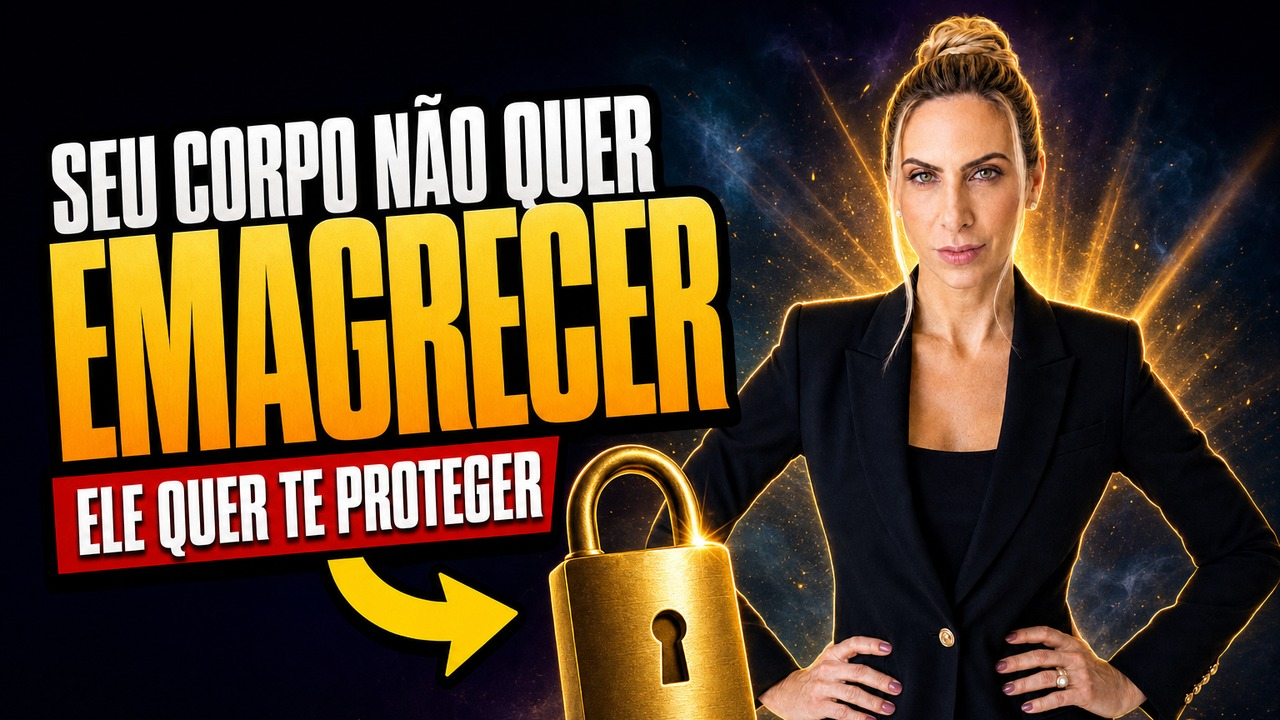
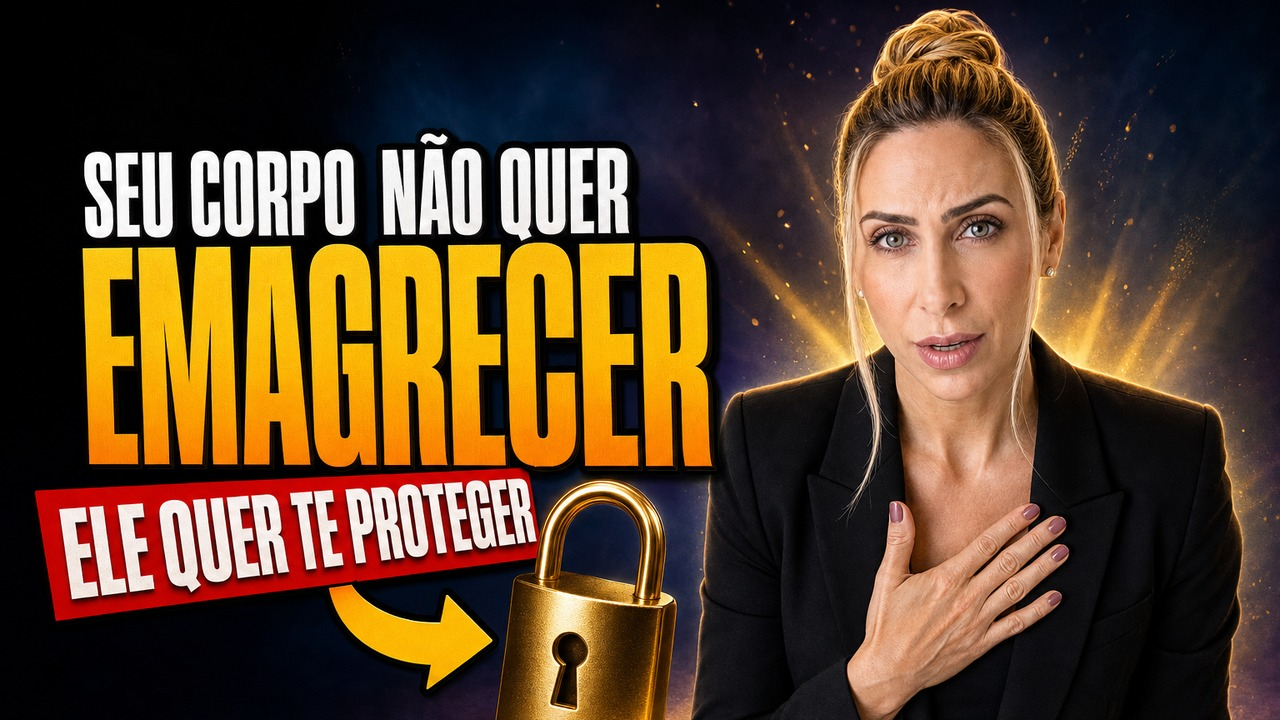
Capa com expressão no lugar da pose, e regra permanente de gerar em vez de colar foto
Segundo exercício pedido pelo usuário: três variantes de expressão ligadas à tese do vídeo
(mão no peito, palma erguida, olhos arregalados), geradas com duas fotos do ensaio apenas como
referência de semelhança. A de mão no peito ficou agendada (post 378341455, id novo após a
troca; uuid inalterado).

O QC lado a lado do rosto revelou o critério que faltava: quanto mais exagerada a expressão,
maior a deriva de identidade. Com os mesmos refs, a variante de acolhimento manteve o rosto da
Dra., enquanto as outras duas engrossaram sobrancelhas, alisaram a pele e arredondaram o rosto.

Regra permanente registrada em CLAUDE.md e FRAMEWORK.md: nunca colar foto pronta, sempre gerar,
com expressão condizente com o tema, e conferir fidelidade contra a foto real.

Claude-Session: https://claude.ai/code/session_01AiagaiSFA1F3z4kvb3C1Ps

diff --git a/CLAUDE.md b/CLAUDE.md
@@ -44,8 +44,10 @@ Este repositório é o **Dra. Juliana Romano Conteúdo Studio**: edição e agen
 - Cloud, mídia pública para o Metricool: commit temporário do render na branch (repo público, raw.githubusercontent.com passa no proxy), agendar e remover o arquivo em seguida. Exige `git add -f` (o .gitignore barra mídia) com autorização do usuário. **Por isso este repo deve ser público.**
 - Cloud: a env var `ELEVENLABS_API_KEY` de environment antigo continha um key ID (64 hex); a chave real é `sk_...` de 51 caracteres.
 - Ver imagem de URL bloqueada pelo environment (ex.: thumbnails i.ytimg.com): Kairogen `download_image_from_url` baixa server-side e retorna a imagem renderizada na conversa. Validado em 2026-09-01 com hqdefault.jpg (~480x360; maxresdefault pode estourar o limite de tokens).
-- Agendamento YouTube validado em 2026-09-01 (post 369746340): vídeo direto pela URL pública do Drive (`drive.usercontent.google.com/download?id=<ID>&export=download&confirm=t`) e `videoThumbnailUrl` por raw.githubusercontent.com funcionam; o Metricool copia ambos para o CDN dele na hora (não precisa vincular o Drive no Metricool). raw.githubusercontent bloqueado localmente no environment não importa: quem busca é o servidor do Metricool. getBestTimeToPostByNetwork: dayOfWeek 1=segunda ... 7=domingo. Canal publica quase diariamente sem padrão fixo de dia/horário (levantado em 2026-09-02): usar sempre o melhor horário do Metricool. Agendados: Mounjaro qui 03/09 16h (post 369746340), Razões da Obesidade ter 08/09 16h (post 369940826; segunda 07/09 é feriado e terça pontua mais alto) Menopausa qui 10/09 16h (post 371279170, capa feita no Claude Design pela agência) e Menopausa 2 qui 17/09 16h (post 376552659; agendado errado em sexta 18/09 e corrigido em 2026-09-15 via update, que troca o id; capa do fluxo briefing+GPT, título "Come pouco e não emagrece?"). LIÇÃO: sempre validar o dia da semana com `date -d <data> +%A` antes de agendar. Cuidado Mounjaro qui 24/09 16h (post 376554817, título "Mounjaro sem resultado?", capa do fluxo briefing+GPT em layout editorial branco/azul). Segredo da Obesidade qui 01/10 16h (post 378336192, título "Seu corpo não quer emagrecer, ele quer te proteger", primeira capa gerada pelo próprio estúdio via API, render em `design-system/renders/capa-segredo-obesidade.jpg`). Melhor horário medido em 18/09: quarta 16h (12033) e quinta 16h (11979) empatam na prática, então a cadência semanal de quinta pesa mais que a diferença. GOTCHA (2026-09-15, e o inverso em 2026-09-18): o normalizador de mídia do Metricool recusa uma das duas formas de URL do Drive com "Failed to normalize media", e **qual das duas falha muda de dia**. Em 15/09 caiu a `drive.usercontent` e passou a `drive.google.com/file/d/<ID>/view`; em 18/09 foi o contrário, a `/view` falhou e a `drive.usercontent...&confirm=t` passou de primeira. Regra: se der "Failed to normalize media", tentar a outra forma antes de procurar problema no arquivo. Thumbnail: limite do YouTube é 2 MB — converter export do Design (2560x1440 PNG ~5 MB) para 1280x720 JPG q92 antes de agendar.
-- **Fluxo de capa por API (2026-09-18, capa Segredo da Obesidade): o melhor até agora, e o estúdio faz sozinho.** `scripts/gera_imagem.py` ganhou `--ref` (foto de referência): a OpenAI passa a usar `/v1/images/edits` e o Gemini recebe a foto como parte inline. Receita validada: escolher no Drive a foto do ensaio cuja **pose case com a tese do vídeo** (aqui, mãos na cintura, blazer preto, para o tema da gordura como armadura), reduzir para 1024 px no lado maior, e mandar um prompt único com cena inteira (pessoa recortada à direita, fundo escuro temático, luz de contorno, bloco de texto caps com contorno preto, palavra-chave em gradiente dourado, faixa vermelha, prop 3D e uma seta). Prompt em `design-system/CAPAS-prompt-api.txt`. Comparação real: **`gpt-image-2` ganhou do `gemini-3-pro-image`** em tipografia (maior e mais pesada), no prop (cadeado com segredo visível) e na luz; o Gemini entrega 16:9 nativo (1376x768) e o OpenAI só 3:2 (1536x1024), que cortado para 1536x864 mantém a composição porque o prop foi pedido vazando pelo rodapé. Custo: ~1min20 no OpenAI, ~19s no Gemini. QC obrigatório de rosto e mãos ampliados: nas duas o rosto saiu fiel e as mãos com cinco dedos e a aliança da foto original, mas **isso precisa ser conferido toda vez**.
+- Agendamento YouTube validado em 2026-09-01 (post 369746340): vídeo direto pela URL pública do Drive (`drive.usercontent.google.com/download?id=<ID>&export=download&confirm=t`) e `videoThumbnailUrl` por raw.githubusercontent.com funcionam; o Metricool copia ambos para o CDN dele na hora (não precisa vincular o Drive no Metricool). raw.githubusercontent bloqueado localmente no environment não importa: quem busca é o servidor do Metricool. getBestTimeToPostByNetwork: dayOfWeek 1=segunda ... 7=domingo. Canal publica quase diariamente sem padrão fixo de dia/horário (levantado em 2026-09-02): usar sempre o melhor horário do Metricool. Agendados: Mounjaro qui 03/09 16h (post 369746340), Razões da Obesidade ter 08/09 16h (post 369940826; segunda 07/09 é feriado e terça pontua mais alto) Menopausa qui 10/09 16h (post 371279170, capa feita no Claude Design pela agência) e Menopausa 2 qui 17/09 16h (post 376552659; agendado errado em sexta 18/09 e corrigido em 2026-09-15 via update, que troca o id; capa do fluxo briefing+GPT, título "Come pouco e não emagrece?"). LIÇÃO: sempre validar o dia da semana com `date -d <data> +%A` antes de agendar. Cuidado Mounjaro qui 24/09 16h (post 376554817, título "Mounjaro sem resultado?", capa do fluxo briefing+GPT em layout editorial branco/azul). Segredo da Obesidade qui 01/10 16h (**post 378341455**, id novo depois da troca de capa; uuid 1932839351931913950; título "Seu corpo não quer emagrecer, ele quer te proteger"). Primeira capa gerada pelo próprio estúdio via API: a v1 usava a foto do ensaio como base e saiu sem expressão; a v2, que ficou agendada, é imagem gerada com expressão de mão no peito. Renders em `design-system/renders/capa-segredo-obesidade.jpg` (agendada) e `capa-segredo-obesidade-alt-revelacao.jpg` (alternativa mais agressiva, rosto menos fiel). Melhor horário medido em 18/09: quarta 16h (12033) e quinta 16h (11979) empatam na prática, então a cadência semanal de quinta pesa mais que a diferença. GOTCHA (2026-09-15, e o inverso em 2026-09-18): o normalizador de mídia do Metricool recusa uma das duas formas de URL do Drive com "Failed to normalize media", e **qual das duas falha muda de dia**. Em 15/09 caiu a `drive.usercontent` e passou a `drive.google.com/file/d/<ID>/view`; em 18/09 foi o contrário, a `/view` falhou e a `drive.usercontent...&confirm=t` passou de primeira. Regra: se der "Failed to normalize media", tentar a outra forma antes de procurar problema no arquivo. Thumbnail: limite do YouTube é 2 MB — converter export do Design (2560x1440 PNG ~5 MB) para 1280x720 JPG q92 antes de agendar.
+- **REGRA PERMANENTE de capa (decidida pelo usuário em 2026-09-18): nunca colar foto pronta, sempre GERAR a imagem.** As fotos do ensaio no Drive entram apenas como **referência de semelhança** (`--ref`), nunca como recorte colado. O prompt tem que pedir **expressão e gesto condizentes com a tese do vídeo**: pose neutra faz capa fraca. O rosto dela está **aprovado** desde 2026-09-18, então não é mais preciso validar caso a caso; o que continua obrigatório é o QC de fidelidade abaixo.
+- **QC de capa gerada: comparar o rosto lado a lado com a foto real, sempre.** Montar uma tira com o recorte do rosto real e o de cada variante (exemplo em `design-system/renders/qc-rostos-segredo-obesidade.jpg`). Achado de 2026-09-18 que vale como regra: **quanto mais exagerada a expressão, maior a deriva de identidade**. Na mesma leva, com os mesmos dois `--ref`, a variante de mão no peito manteve o rosto dela (olhos, nariz, textura de pele e marcas de expressão reais), enquanto a de olhos arregalados e a de palma erguida engrossaram a sobrancelha, alisaram a pele e arredondaram o rosto, virando "uma mulher parecida". Conferir também mãos (cinco dedos, unhas e anel iguais aos da foto) e ortografia com acento.
+- **Fluxo de capa por API (2026-09-18, capa Segredo da Obesidade): o melhor até agora, e o estúdio faz sozinho.** `scripts/gera_imagem.py` ganhou `--ref` (foto de referência): a OpenAI passa a usar `/v1/images/edits` e o Gemini recebe a foto como parte inline. Receita validada: escolher no Drive a foto do ensaio cuja **pose case com a tese do vídeo** (aqui, mãos na cintura, blazer preto, para o tema da gordura como armadura), reduzir para 1024 px no lado maior, e mandar um prompt único com cena inteira (pessoa recortada à direita, fundo escuro temático, luz de contorno, bloco de texto caps com contorno preto, palavra-chave em gradiente dourado, faixa vermelha, prop 3D e uma seta). Prompt em `design-system/CAPAS-prompt-api.txt`. Duas ou três fotos de ângulos diferentes como `--ref` sustentam a semelhança melhor que uma. Cada geração 1536x1024 leva ~1min25. Comparação real: **`gpt-image-2` ganhou do `gemini-3-pro-image`** em tipografia (maior e mais pesada), no prop (cadeado com segredo visível) e na luz; o Gemini entrega 16:9 nativo (1376x768) e o OpenAI só 3:2 (1536x1024), que cortado para 1536x864 mantém a composição porque o prop foi pedido vazando pelo rodapé. Custo: ~1min20 no OpenAI, ~19s no Gemini. QC obrigatório de rosto e mãos ampliados: nas duas o rosto saiu fiel e as mãos com cinco dedos e a aliança da foto original, mas **isso precisa ser conferido toda vez**.
 - **Fluxo de capa vencedor anterior (2026-09-14, capa Menopausa 2), quando não houver API de imagem**: o estúdio escreve o BRIEFING CRIATIVO (conceito com paradoxo, cena, foto do ensaio anexa por URL pública, tipografia, selo, prop, uma única seta com semântica, paleta fechada, regras) e a agência executa em modelo de imagem externo (GPT); a cena inteira gerada de uma vez integra luz/foto/prop melhor que qualquer colagem por camadas. Estúdio recebe o PNG pela pasta oficial de capas, faz QC (ortografia, sem travessão, rosto aprovado pela Dra., 1280x720 JPG <=2MB) e agenda. ATENÇÃO no QC: a IA re-renderiza o rosto e inventa detalhes (unhas, joias); validar com a cliente. Template do briefing: mensagem de 2026-09-14 na sessão; composição procedural local (foto real + placa PIL + tipografia HTML/playwright, scripts no scratchpad) é FALLBACK quando não houver modelo de imagem disponível.
 - Fluxo de capa anterior (validado na capa da Menopausa, 2026-09-04): assets via Higgsfield (fundo nano_banana_pro + remove_background da foto e do prop) -> composição no sandbox_exec com `design-system/scripts/capa_menopausa.py` (supersampling 2x) OU execução no Claude Design pela agência com o prompt `design-system/CAPAS-prompt-design.md` + os 3 assets anexados (a arte aprovada da Menopausa saiu do Design). Sandbox: stdout trunca ~20K chars (elide o meio acima disso); arquivos somem ~10s após cada call (background:true dá lease de 15 min); trazer imagem do sandbox para o environment via base64 em chunks funciona mas é frágil, preferir CDN + browser do usuário para aprovação. Kairogen download_image_from_url NÃO aceita os CDNs do Higgsfield (host not allowed). Imagem colada no chat chega só renderizada (sem arquivo em disco): arte final produzida fora do estúdio precisa chegar por URL pública (pasta oficial de capas).
 - Render de capa local: fontes do Google Fonts bloqueadas no environment; instalar TTFs do repo público google/fonts (sparse clone) em ~/.fonts + fc-cache, e renderizar o artboard com playwright-core + Chromium de /opt/pw-browsers/chromium (screenshot 1280x720). Frames de vídeo verticalmente: cortar acima da faixa de legenda queimada (~y 770 em 1080p) ou achar take com a mão erguida.

diff --git a/FRAMEWORK.md b/FRAMEWORK.md
@@ -76,7 +76,7 @@ Padrão em duas fases. A v1 (frames de vídeo, usada nas capas do Mounjaro e das
 - **Fundo escuro dramático** (preto/quase preto com glow colorido, fogo, textura) ou o próprio cenário do vídeo saturado e escurecido nas bordas.
 - **Texto gigante em caps, fonte condensada pesada (Anton/Impact-like)**: branco + **amarelo #FFE234** como dupla principal, com **contorno preto grosso** e sombra dura; vermelho para palavras de perigo, verde para promessa/solução. 2 a 4 linhas curtas na metade esquerda.
 - **Selos/badges rotacionados** com borda branca: vermelho "CUIDADO!", verde para afirmação; balões e interrogações quando o tema é dúvida.
-- **Foto dela grande à direita com expressão exagerada** (choque, mão na boca, dedo em riste, mãos na cabeça); frame do próprio vídeo serve, com contraste/saturação levantados.
+- **Imagem dela grande à direita, sempre GERADA por IA** (`scripts/gera_imagem.py --ref`), nunca foto colada nem frame de vídeo: as fotos do ensaio servem só como referência de semelhança. A **expressão e o gesto precisam traduzir a tese do vídeo** (mão no peito para acolhimento, palma erguida para alerta, olhos arregalados para revelação). Quanto mais exagerada a expressão, mais o rosto deriva: conferir no QC lado a lado, ver `CLAUDE.md`.
 - **Props e grafismos**: produto em cena (caneta, caixa de remédio), setas grossas vermelhas/amarelas apontando, X vermelho sobre comida, inset de foto com borda branca.
 - Sem travessão no lettering; produto citado por nome apenas quando o vídeo já o faz.
 - Fluxo prático: extrair frame expressivo do bruto (folha de contato com ffmpeg), recortar a região da pessoa, subir saturação/contraste, compor com texto e grafismos.
